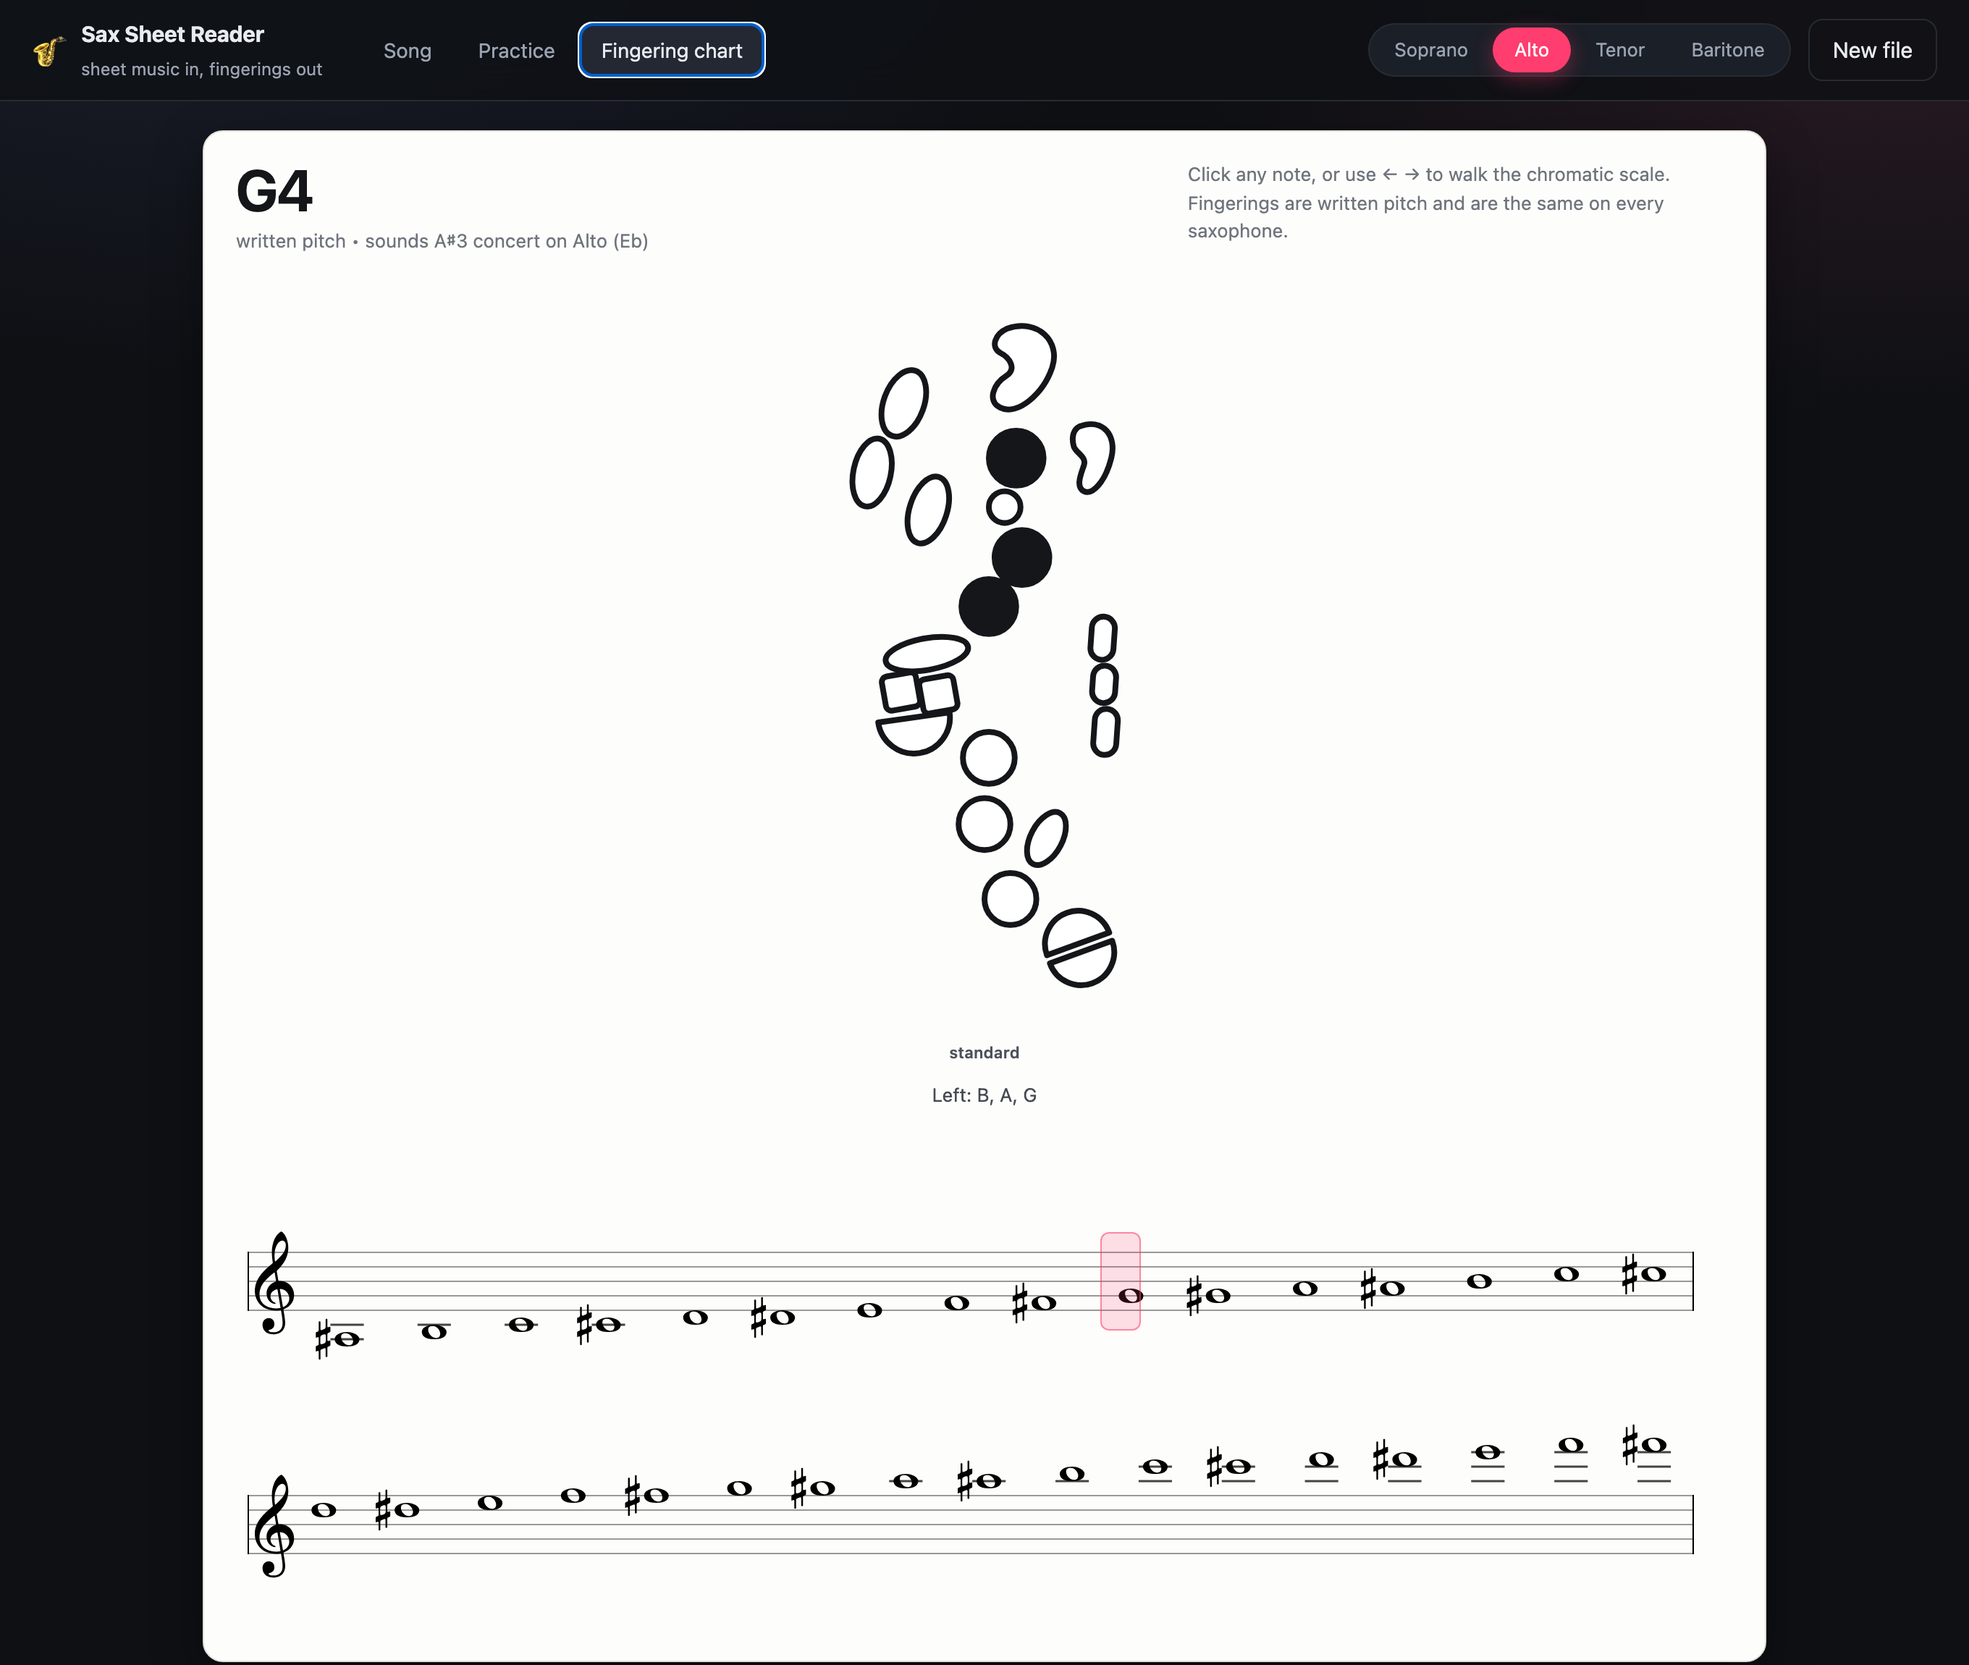
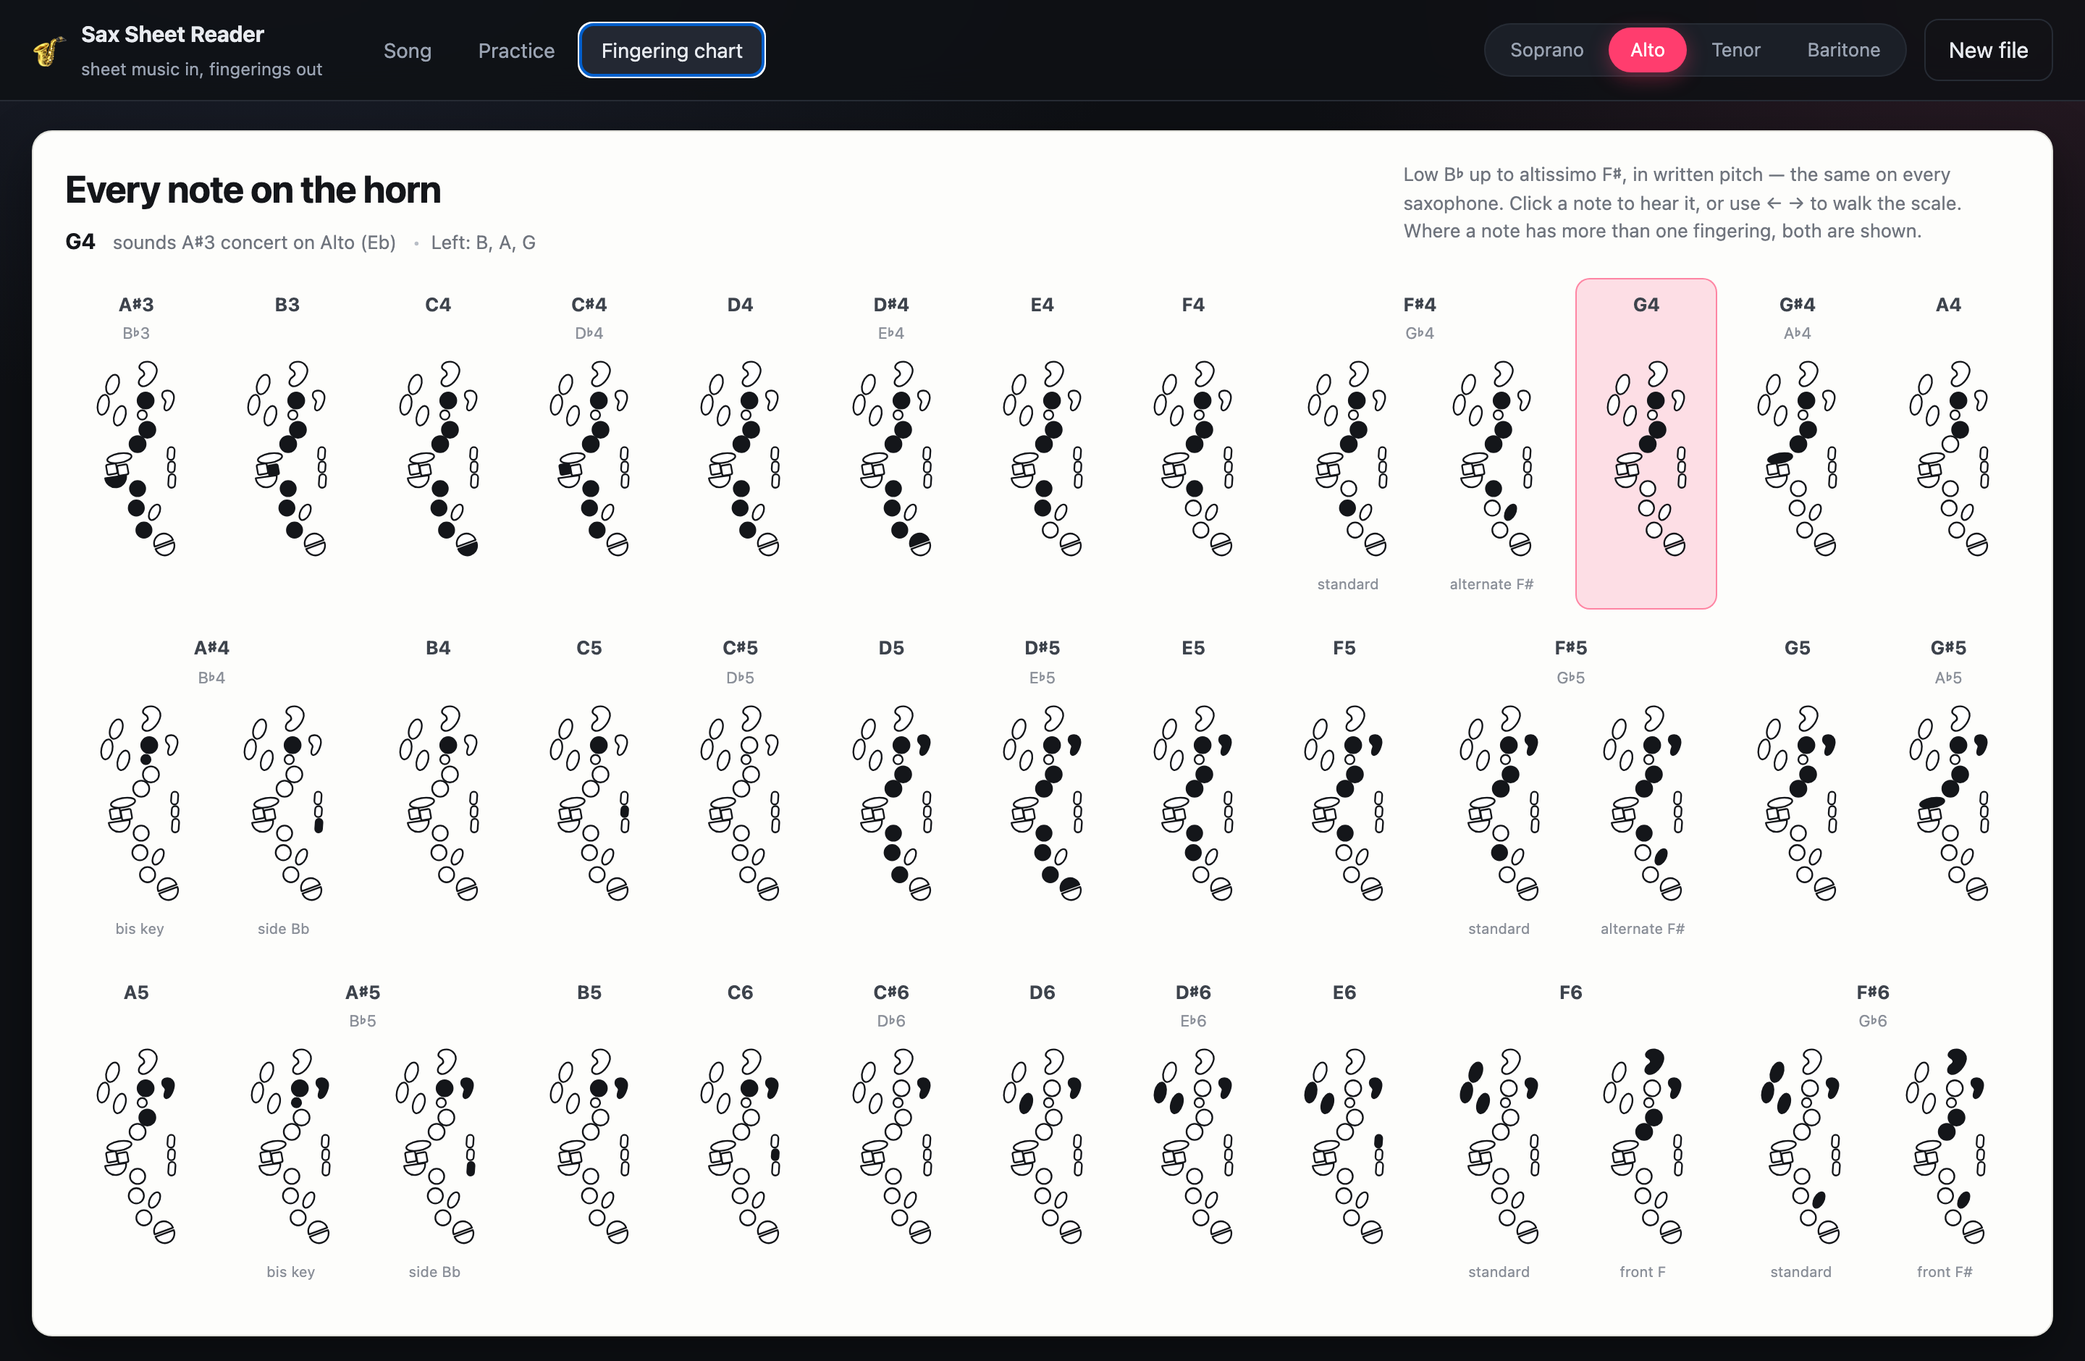
Show the whole written range at once on the fingering chart
The chart worked like the song view: one big diagram, and you walked the
chromatic scale a note at a time to find what you wanted. A reference is easier
to read all at once, the way a printed chart is.

- Every note of the written range is now a card in one grid, low Bb to F#, and
  the whole thing lands in three rows on a normal window
- Notes with an alternate show both fingerings side by side, captioned, in a
  card that takes two columns so no diagram ends up a different size
- The header names the selected note, its concert pitch and its keys; clicking
  a note still plays it and the arrow keys still walk the range
- The card grid moved to its own module, shared with the practice page, and the
  empty caption and second-name lines have fixed heights so diagrams line up
  across a row whether or not a note has either

diff --git a/frontend/app.js b/frontend/app.js
@@ -1,6 +1,7 @@
 import { renderDiagram, describeFingering } from './fingering.js';
-import { renderScore, renderNoteRow } from './score.js';
+import { renderScore } from './score.js';
 import { renderDrillList, renderDrillStaff, renderDrillNotes } from './practice.js';
+import { renderNoteCards } from './notegrid.js';
 import { SaxSynth } from './audio.js';
 
 const $ = (id) => document.getElementById(id);
@@ -27,7 +28,7 @@ const state = {
 
   chart: [],
   chartIndex: 0,
-  chartPositions: [],
+  chartCards: [],
 
   drills: [],
   drillId: null,
@@ -446,48 +447,34 @@ function uploadFile(file) {
 /* ───────────────────────────── chart view ────────────────────────────── */
 
 function drawChart() {
-  const rows = $('chartRows');
-  rows.innerHTML = '';
-  const midis = state.chart.map((entry) => entry.midi);
-  const split = midis.findIndex((m) => m >= 74);
-  const groups = [midis.slice(0, split), midis.slice(split)];
-
-  state.chartPositions = [];
-  let offset = 0;
-  for (const group of groups) {
-    const positions = renderNoteRow(rows, group, {
-      fifths: 0,
-      indexOffset: offset,
-      onSelectNote: (index) => setChartIndex(index, true),
-    });
-    state.chartPositions.push(...positions);
-    offset += group.length;
-  }
+  state.chartCards = renderNoteCards($('chartGrid'), state.chart.map((entry) => ({
+    label: noteLabel(entry.midi),
+    sublabel: hasEnharmonic(entry.midi) ? noteLabel(entry.midi, true) : '',
+    options: entry.options,
+  })), {
+    diagram: state.diagram,
+    showAlternates: true,
+    onSelect: (index) => setChartIndex(index, true),
+  });
   setChartIndex(state.chartIndex, false);
 }
 
 function setChartIndex(index, hear) {
   state.chartIndex = Math.max(0, Math.min(index, state.chart.length - 1));
-  const midi = state.chart[state.chartIndex].midi;
+  const entry = state.chart[state.chartIndex];
+  const { midi } = entry;
 
   $('chartNoteName').textContent = hasEnharmonic(midi)
     ? `${noteLabel(midi)} / ${noteLabel(midi, true)}` : noteLabel(midi);
-  $('chartNoteConcert').textContent = `written pitch • sounds ${noteLabel(concertMidi(midi))} concert on ${state.instruments[state.instrument].label}`;
+  $('chartNoteConcert').textContent = `sounds ${noteLabel(concertMidi(midi))} concert `
+    + `on ${state.instruments[state.instrument].label}`;
+  $('chartDesc').textContent = entry.options.length
+    ? describeFingering(state.diagram, entry.options[0].keys) : '';
 
-  const fingering = paintDiagrams($('chartDiagramRow'), midi);
-  $('chartDesc').textContent = fingering.options.length
-    ? describeFingering(state.diagram, fingering.options[0].keys) : '';
-
-  const box = state.chartPositions[state.chartIndex];
-  const highlight = $('chartHighlight');
-  if (box) {
-    highlight.hidden = false;
-    highlight.style.transform = `translate(${box.left}px, ${box.top}px)`;
-    highlight.style.width = `${box.width}px`;
-    highlight.style.height = `${box.height}px`;
-  } else {
-    highlight.hidden = true;
-  }
+  state.chartCards.forEach((card, i) => {
+    card.classList.toggle('is-current', i === state.chartIndex);
+  });
+  state.chartCards[state.chartIndex]?.scrollIntoView({ block: 'nearest' });
 
   if (hear) synth.note(concertMidi(midi), synth.now + 0.01, 0.7);
 }
@@ -636,7 +623,7 @@ function buildInstrumentToggle() {
       state.instrument = id;
       buildInstrumentToggle();
       if (state.score) updateReadout();
-      if (state.chartPositions.length) setChartIndex(state.chartIndex, false);
+      if (state.view === 'chart') setChartIndex(state.chartIndex, false);
       if (state.view === 'practice') drawDrill();
     });
     container.appendChild(button);
@@ -697,7 +684,6 @@ function wireEvents() {
   $('labelsToggle').addEventListener('change', (event) => {
     state.showLabels = event.target.checked;
     if (state.score) updateReadout();
-    if (state.chartPositions.length) setChartIndex(state.chartIndex, false);
   });
 
   $('drillPlay').addEventListener('click', () => (state.drillPlaying ? stopDrill() : startDrill()));

diff --git a/frontend/styles.css b/frontend/styles.css
@@ -565,14 +565,17 @@ input[type=range]::-webkit-slider-thumb {
 
 .drill-staff { margin: 14px 0 2px; }
 
-.drill-grid {
+/* ─── the wall of diagrams, shared by the practice page and the chart ─── */
+
+.note-grid {
+  --card-diagram: 190px;
   display: grid;
-  grid-template-columns: repeat(auto-fill, minmax(104px, 1fr));
-  gap: 10px 8px;
+  grid-template-columns: repeat(auto-fill, minmax(108px, 1fr));
+  gap: 8px 6px;
   margin-top: 10px;
 }
 
-.drill-note {
+.note-card {
   border: 1px solid transparent;
   border-radius: 10px;
   background: transparent;
@@ -582,23 +585,64 @@ input[type=range]::-webkit-slider-thumb {
   display: flex;
   flex-direction: column;
   align-items: center;
-  gap: 6px;
+  gap: 4px;
 }
-.drill-note:hover { border-color: #e4e4dd; background: #f7f7f3; }
-.drill-note.is-current {
+.note-card:hover { border-color: #e4e4dd; background: #f7f7f3; }
+.note-card.is-current {
   border-color: rgba(255, 61, 110, 0.55);
   background: var(--accent-soft);
 }
+/* Two fingerings side by side, each still the width of a plain card. */
+.note-card.is-wide { grid-column: span 2; }
 
-.drill-note-name { font-size: 13px; font-weight: 700; color: #3d434c; }
-.drill-note .sax-diagram { width: 100%; height: 190px; }
+.note-card-name { font-size: 13px; font-weight: 700; color: #3d434c; }
+/* Fixed height rather than a minimum: an empty line has to take exactly as
+   much room as one with a note name in it. */
+.note-card-sub {
+  height: 15px;
+  line-height: 15px;
+  font-size: 11px;
+  color: #8b9099;
+  margin-top: -2px;
+}
 
-.chart-panel { padding: 20px 22px 26px; max-width: 1080px; margin: 0 auto; }
-.chart-head { display: flex; gap: 24px; align-items: flex-start; justify-content: space-between; flex-wrap: wrap; }
-.chart-head .note-readout { border: 0; padding: 0; margin: 0; }
-.chart-hint { color: #6f747d; font-size: 13px; max-width: 46ch; margin: 0; }
-.chart-staves { margin-top: 18px; }
-.chart-panel { flex: none; }
-.chart-panel .diagram-row { flex: none; height: min(58vh, 540px); margin: 10px 0 4px; }
-.chart-panel .diagram-card { flex: 0 1 380px; }
-.chart-panel .fingering-desc { min-height: 0; }
+.note-card-row { display: flex; gap: 6px; width: 100%; justify-content: center; }
+.note-card-row figure {
+  margin: 0;
+  flex: 1 1 0;
+  min-width: 0;
+  display: flex;
+  flex-direction: column;
+}
+.note-card-row .sax-diagram { width: 100%; height: var(--card-diagram); }
+/* Kept even when empty, so cards with and without a caption line up. */
+.note-card-row figcaption {
+  height: 14px;
+  line-height: 14px;
+  font-size: 10px;
+  color: #8b9099;
+  text-align: center;
+  margin-top: 3px;
+}
+
+/* ─────────────────────────── chart ──────────────────────────────────── */
+
+.chart-panel { padding: 20px 22px 26px; flex: none; }
+.chart-panel .note-grid {
+  /* Narrower columns than a drill: the whole written range fits one screen. */
+  grid-template-columns: repeat(auto-fill, minmax(96px, 1fr));
+  --card-diagram: 152px;
+  margin-top: 14px;
+}
+.chart-head {
+  display: flex;
+  gap: 24px;
+  align-items: flex-start;
+  justify-content: space-between;
+  flex-wrap: wrap;
+}
+.chart-head h2 { margin: 0; font-size: 26px; letter-spacing: -0.02em; }
+.chart-selected { margin: 5px 0 0; font-size: 13px; color: #6f747d; }
+.chart-selected strong { font-size: 15px; color: #14161a; margin-right: 8px; }
+.chart-selected span + span::before { content: '•'; margin: 0 7px; color: #b9bec6; }
+.chart-hint { color: #6f747d; font-size: 13px; max-width: 52ch; margin: 0; }

diff --git a/frontend/notegrid.js b/frontend/notegrid.js
@@ -1,0 +1,53 @@
+/* A wall of fingering diagrams, one card per note. The practice page uses it for
+   a drill and the reference chart for the whole written range. */
+
+import { renderDiagram } from './fingering.js';
+
+/**
+ * `items` are { label, sublabel, options } in reading order. Cards that show
+ * more than one fingering take two columns, so every diagram on the page ends
+ * up the same size. Returns the cards, for marking which note is current.
+ */
+export function renderNoteCards(container, items, config = {}) {
+  const { diagram, onSelect, showAlternates = false } = config;
+  container.innerHTML = '';
+
+  return items.map((item, index) => {
+    const card = document.createElement('button');
+    card.className = 'note-card';
+    card.type = 'button';
+
+    const name = document.createElement('span');
+    name.className = 'note-card-name';
+    name.textContent = item.label;
+    card.appendChild(name);
+
+    // Always present, even when empty, so diagrams line up across a row
+    // whether or not the note has a second name.
+    const sub = document.createElement('span');
+    sub.className = 'note-card-sub';
+    sub.textContent = item.sublabel || '';
+    card.appendChild(sub);
+
+    const options = showAlternates ? item.options : item.options.slice(0, 1);
+    const shown = options.length ? options : [{ name: '', keys: [] }];
+    if (shown.length > 1) card.classList.add('is-wide');
+
+    const row = document.createElement('div');
+    row.className = 'note-card-row';
+    for (const option of shown) {
+      const figure = document.createElement('figure');
+      figure.appendChild(renderDiagram(diagram, option.keys));
+      const caption = document.createElement('figcaption');
+      // Naming one fingering only helps when there is another to tell it from.
+      caption.textContent = shown.length > 1 ? option.name : '';
+      figure.appendChild(caption);
+      row.appendChild(figure);
+    }
+    card.appendChild(row);
+
+    if (onSelect) card.addEventListener('click', () => onSelect(index));
+    container.appendChild(card);
+    return card;
+  });
+}

diff --git a/frontend/index.html b/frontend/index.html
@@ -185,7 +185,7 @@
 
         <p class="drill-hint" id="drillHint"></p>
         <div class="drill-staff" id="drillStaff"></div>
-        <div class="drill-grid" id="drillGrid"></div>
+        <div class="note-grid" id="drillGrid"></div>
       </section>
     </div>
   </section>
@@ -194,23 +194,20 @@
   <section class="view" id="view-chart">
     <div class="panel paper chart-panel">
       <div class="chart-head">
-        <div class="note-readout">
-          <div class="note-readout-main">
-            <span class="note-name" id="chartNoteName">—</span>
-          </div>
-          <div class="note-readout-meta"><span id="chartNoteConcert"></span></div>
+        <div>
+          <h2>Every note on the horn</h2>
+          <p class="chart-selected">
+            <strong id="chartNoteName">—</strong>
+            <span id="chartNoteConcert"></span>
+            <span id="chartDesc"></span>
+          </p>
         </div>
-        <p class="chart-hint">Click any note, or use ← → to walk the chromatic scale.
-          Fingerings are written pitch and are the same on every saxophone.</p>
+        <p class="chart-hint">Low B♭ up to altissimo F♯, in written pitch — the same
+          on every saxophone. Click a note to hear it, or use ← → to walk the scale.
+          Where a note has more than one fingering, both are shown.</p>
       </div>
 
-      <div class="diagram-row" id="chartDiagramRow"></div>
-      <p class="fingering-desc" id="chartDesc"></p>
-
-      <div class="score-inner chart-staves" id="chartStaves">
-        <div id="chartRows"></div>
-        <div class="note-highlight" id="chartHighlight" hidden></div>
-      </div>
+      <div class="note-grid" id="chartGrid"></div>
     </div>
   </section>
 </main>

diff --git a/frontend/practice.js b/frontend/practice.js
@@ -2,8 +2,8 @@
    Each drill is laid out as one fingering diagram per note, all on screen at
    once, so a whole scale can be read the way a printed chart reads. */
 
-import { renderDiagram } from './fingering.js';
 import { renderNoteRow } from './score.js';
+import { renderNoteCards } from './notegrid.js';
 
 const MAX_PER_STAFF = 16;
 
@@ -48,27 +48,12 @@ export function renderDrillStaff(container, drill) {
 
 /** Draw the diagram for every note in the drill. Returns the card elements so
     the caller can mark which one is sounding. */
-/* Cards are too small for key names, so the diagrams here are always plain. */
+/** Draw the diagram for every note in the drill. */
 export function renderDrillNotes(container, drill, deps) {
-  const { diagram, fingeringFor, noteLabel, onSelect } = deps;
-  container.innerHTML = '';
+  const { fingeringFor, noteLabel } = deps;
   const flats = drill.fifths < 0;
-
-  return drill.notes.map((midi, step) => {
-    const card = document.createElement('button');
-    card.className = 'drill-note';
-    card.type = 'button';
-
-    const name = document.createElement('span');
-    name.className = 'drill-note-name';
-    name.textContent = noteLabel(midi, flats);
-    card.appendChild(name);
-
-    const option = fingeringFor(midi).options[0];
-    card.appendChild(renderDiagram(diagram, option ? option.keys : []));
-
-    if (onSelect) card.addEventListener('click', () => onSelect(step));
-    container.appendChild(card);
-    return card;
-  });
+  return renderNoteCards(container, drill.notes.map((midi) => ({
+    label: noteLabel(midi, flats),
+    options: fingeringFor(midi).options,
+  })), { diagram: deps.diagram, onSelect: deps.onSelect });
 }

diff --git a/README.md b/README.md
@@ -19,7 +19,8 @@ every note, in order. Runs entirely on your own machine.
   nudge it by a semitone or an octave, or open the original page side by side.
 - **Practice page** of warm-ups, scales, arpeggios and patterns, each laid out
   with every fingering on screen at once.
-- **Chromatic chart tab** for looking up a single note, no file needed.
+- **Fingering chart** with the whole written range on one screen, alternates
+  included, no file needed.
 
 ## Run it
 
@@ -70,10 +71,14 @@ which key is which.
 
 ![The diagram with every key named](docs/key-names.png)
 
-The **Fingering chart** tab walks the chromatic scale from low Bb to altissimo
-F#, with the same diagram for each note.
+## Fingering chart
 
-![The chromatic fingering chart](docs/chart.png)
+The whole written range on one screen, low B♭ up to altissimo F♯. Notes with
+more than one fingering show both — bis B♭ next to side B♭, standard F♯ next to
+the alternate — so you can see the choice rather than read about it. Click a
+note to hear it, or walk the range with the arrow keys.
+
+![The fingering chart: every note of the written range at once](docs/chart.png)
 
 ## How it works
 
